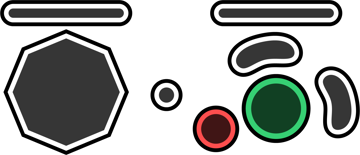
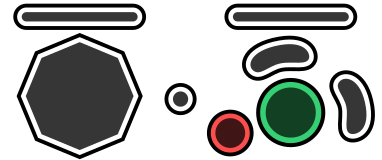
input viewer fixes

Changed region(s): [[0.5194, 0.0, 1.0, 1.0], [0.0, 0.0, 0.5194, 1.0], [0.7028, 0.5935, 0.7333, 0.6194]]

diff --git a/dolphin-overlay/lib/game_overlay_components.py b/dolphin-overlay/lib/game_overlay_components.py
@@ -1406,6 +1406,12 @@ class InputViewerComponent(game_overlay.GameOverlayComponent):
 
         controller_data = self._extract_controller_data(game_data)
 
+        # NOTE: hotfix so DRight inputs show as stick inputs
+        if controller_data["buttons"]["DRight"]:
+            controller_data["analog_sticks"]["Main"]["X"] = 1
+            controller_data["analog_sticks"]["Main"]["Y"] = 0
+            controller_data["buttons"]["DRight"] = 0
+
         # Draw buttons
         for but_name, but_value in controller_data["buttons"].items():
             if but_value:
@@ -1468,7 +1474,6 @@ class InputViewerComponent(game_overlay.GameOverlayComponent):
                 continue
             shoulder = self._input_skin.shoulders[shoulder_name]
             match shoulder.direction:
-                # TODO: no idea if this is actually working
                 case "right":
                     image_draw.rectangle(
                         xy=(
